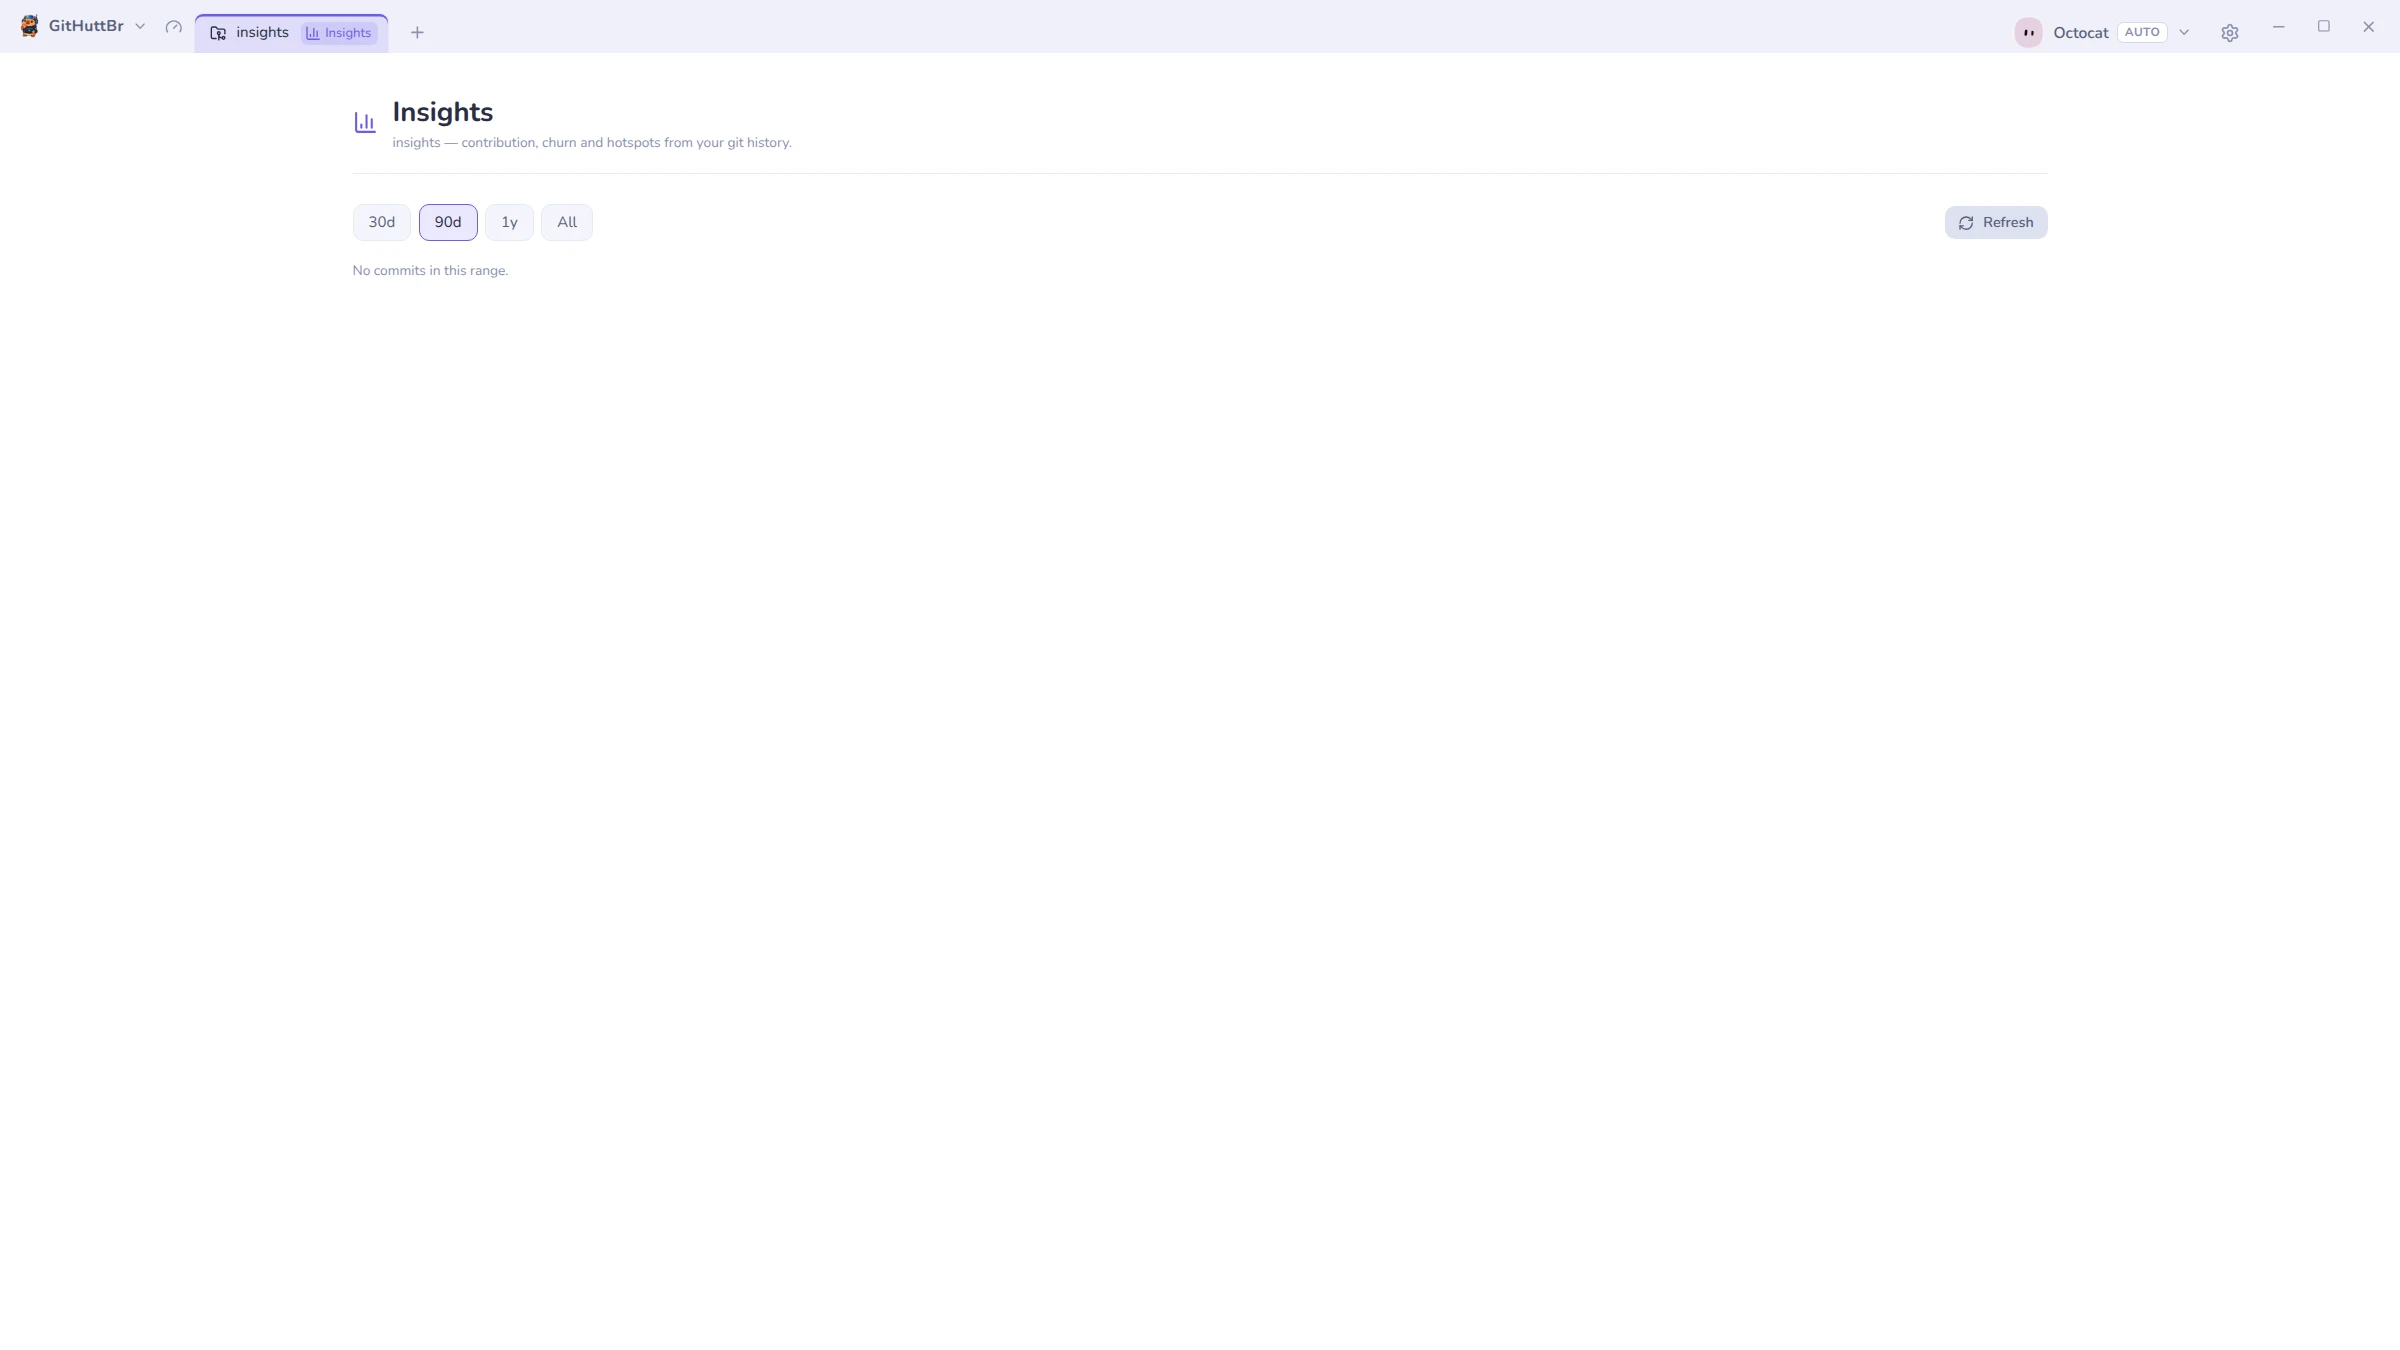
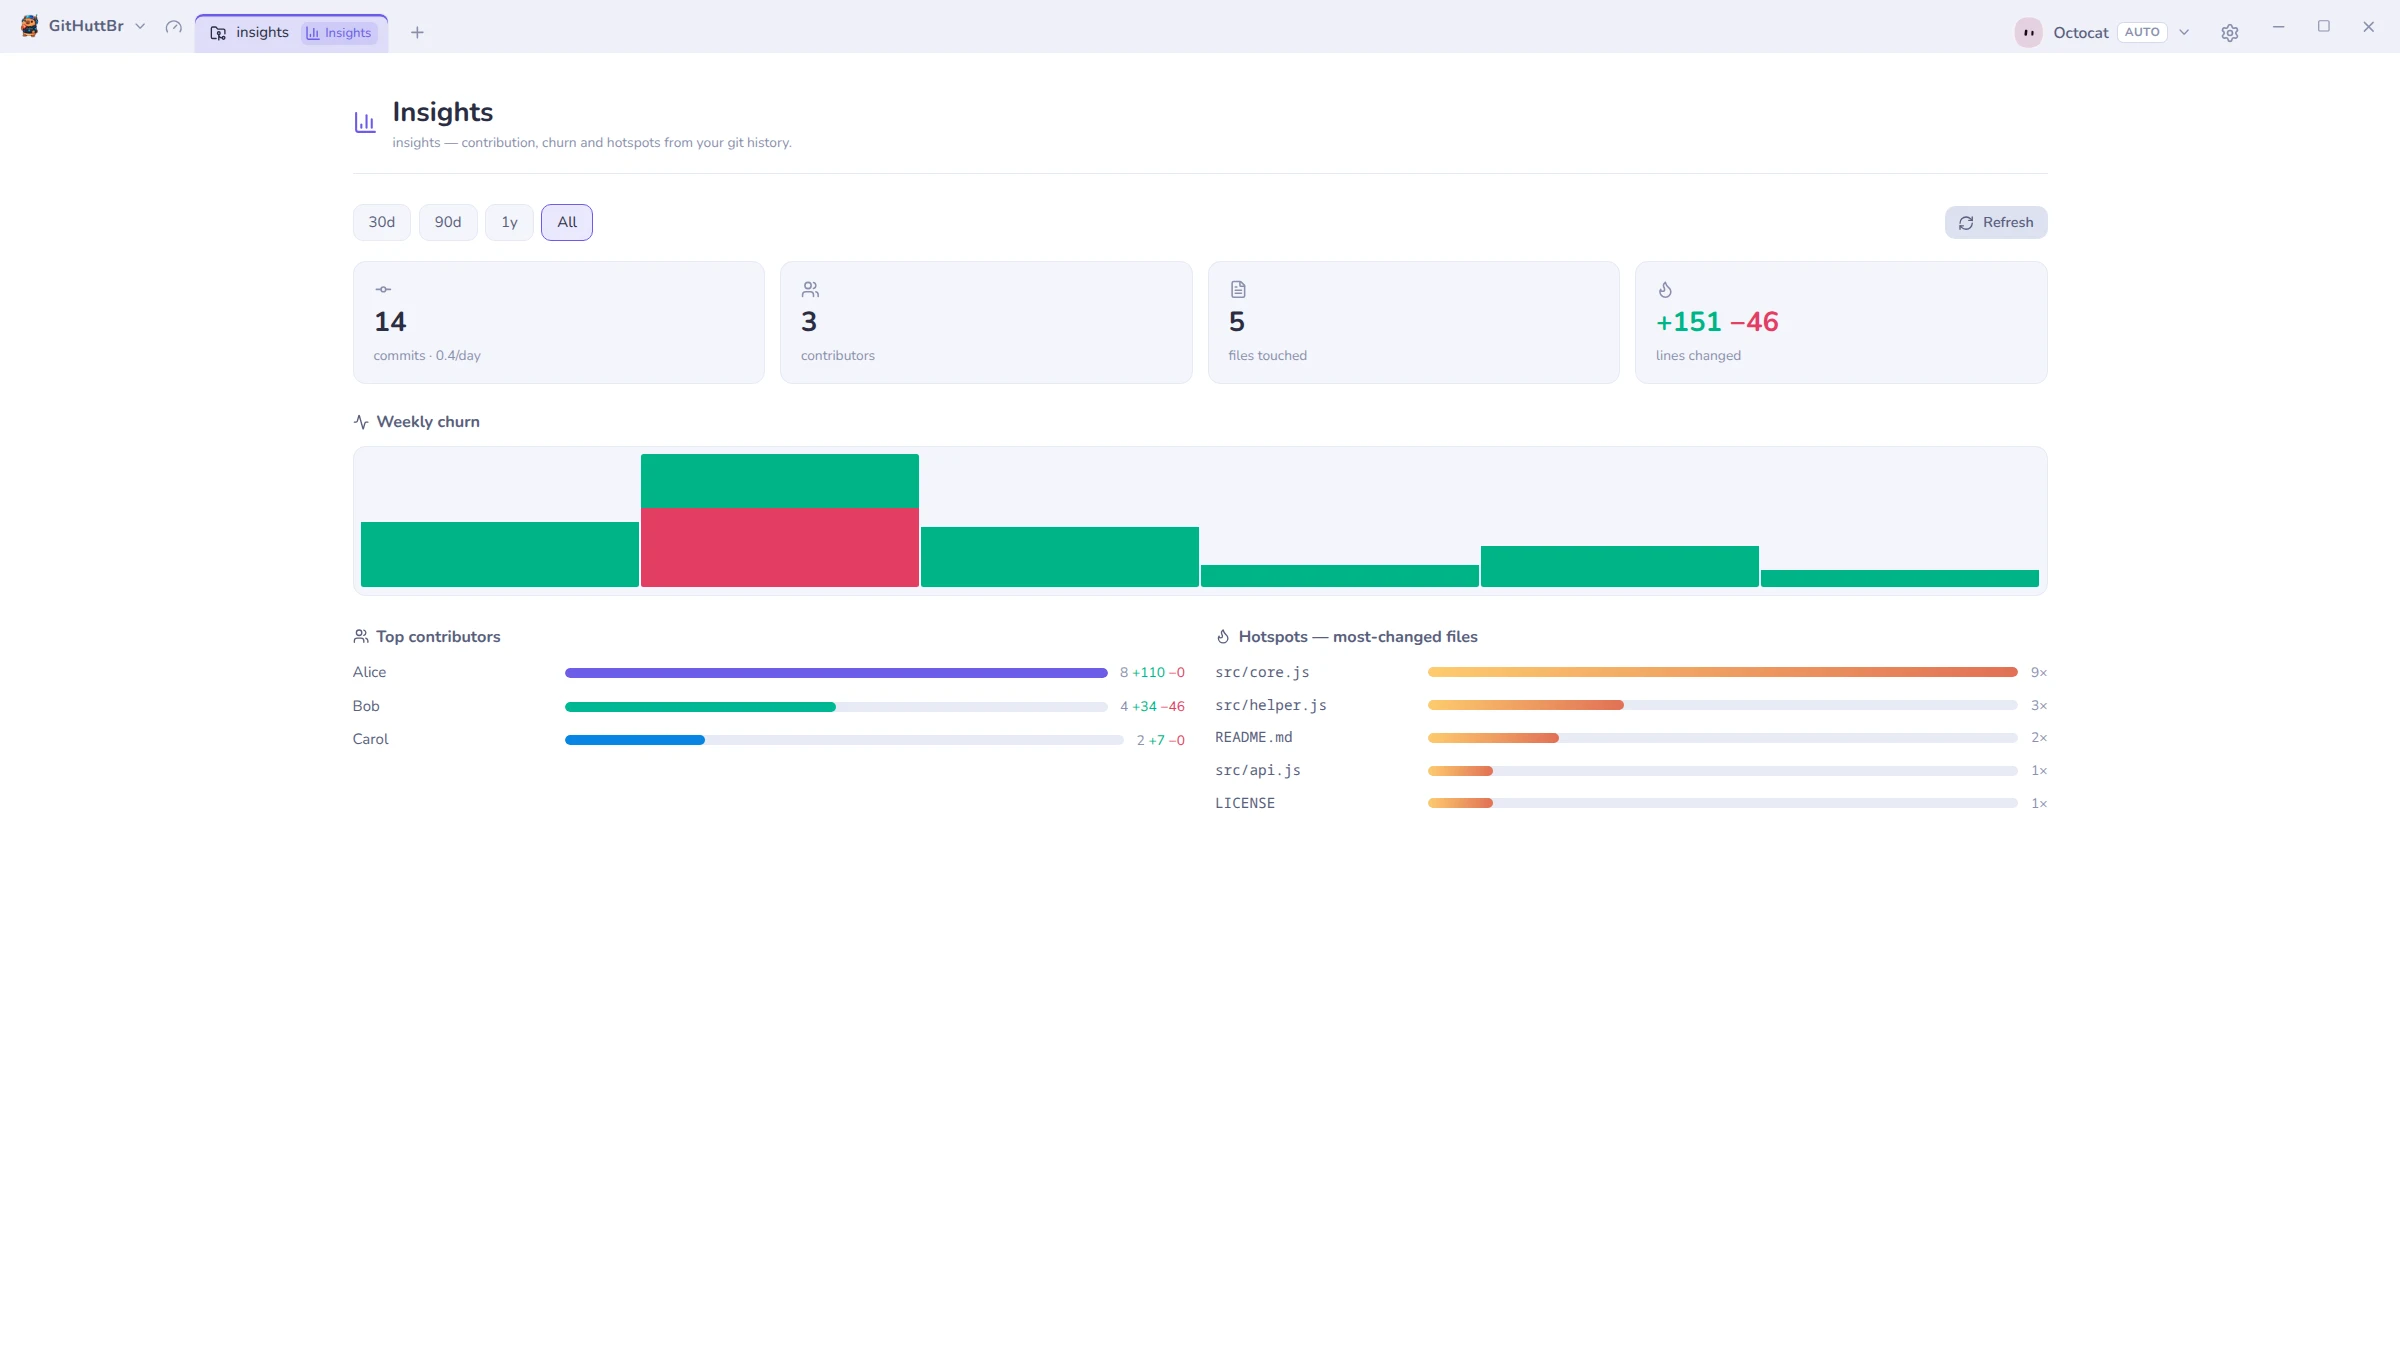
fix(insights): one title inside repository settings, a populated handbook shot

diff --git a/src/renderer/src/components/InsightsPage.tsx b/src/renderer/src/components/InsightsPage.tsx
@@ -22,7 +22,11 @@ function fmt(n: number): string {
   return n.toLocaleString()
 }
 
-export function InsightsPage({ repoPath }: { repoPath: string }): React.JSX.Element {
+/**
+ * `embedded`: inside Repository settings, whose page head already says "Insights"
+ * with its icon — the page's own big title would say it twice.
+ */
+export function InsightsPage({ repoPath, embedded = false }: { repoPath: string; embedded?: boolean }): React.JSX.Element {
   const t = useT()
   const toast = useUIStore((s) => s.toast)
   const setFileView = useUIStore((s) => s.setFileView)
@@ -77,15 +81,17 @@ export function InsightsPage({ repoPath }: { repoPath: string }): React.JSX.Elem
         transition={{ duration: 0.2 }}
       >
         <PageHead>
-          <header className="changelog-header">
-            <div className="changelog-title">
-              <BarChart3 size={20} />
-              <div>
-                <h1>{t('insights.title')}</h1>
-                <span className="settings-hint">{repoName} {t('insights.subtitle')}</span>
+          {!embedded && (
+            <header className="changelog-header">
+              <div className="changelog-title">
+                <BarChart3 size={20} />
+                <div>
+                  <h1>{t('insights.title')}</h1>
+                  <span className="settings-hint">{repoName} {t('insights.subtitle')}</span>
+                </div>
               </div>
-            </div>
-          </header>
+            </header>
+          )}
           <div style={{ display: 'flex', gap: 8, alignItems: 'center', marginBottom: 16 }}>
             <div className="codesearch-tabs" style={{ margin: 0 }}>
               {RANGES.map((r) => (

diff --git a/src/renderer/src/components/RepoSettingsModal.tsx b/src/renderer/src/components/RepoSettingsModal.tsx
@@ -447,7 +447,7 @@ export function RepoSettingsModal({ repoPath, initialTab }: { repoPath: string; 
             {page === 'info' && <RepoInfoTab repoPath={repoPath} />}
             {page === 'vault' && <RepoVaultTab repoPath={repoPath} onCount={onVaultCount} />}
             {page === 'analytics' && <AnalyticsSection aiEnabled={aiEnabled} />}
-            {page === 'insights' && <InsightsPage repoPath={repoPath} />}
+            {page === 'insights' && <InsightsPage repoPath={repoPath} embedded />}
             {page === 'history' && <RepoHistorySection />}
             {page === 'logs' && <RepoLogsTab repoPath={repoPath} />}
           </div>
